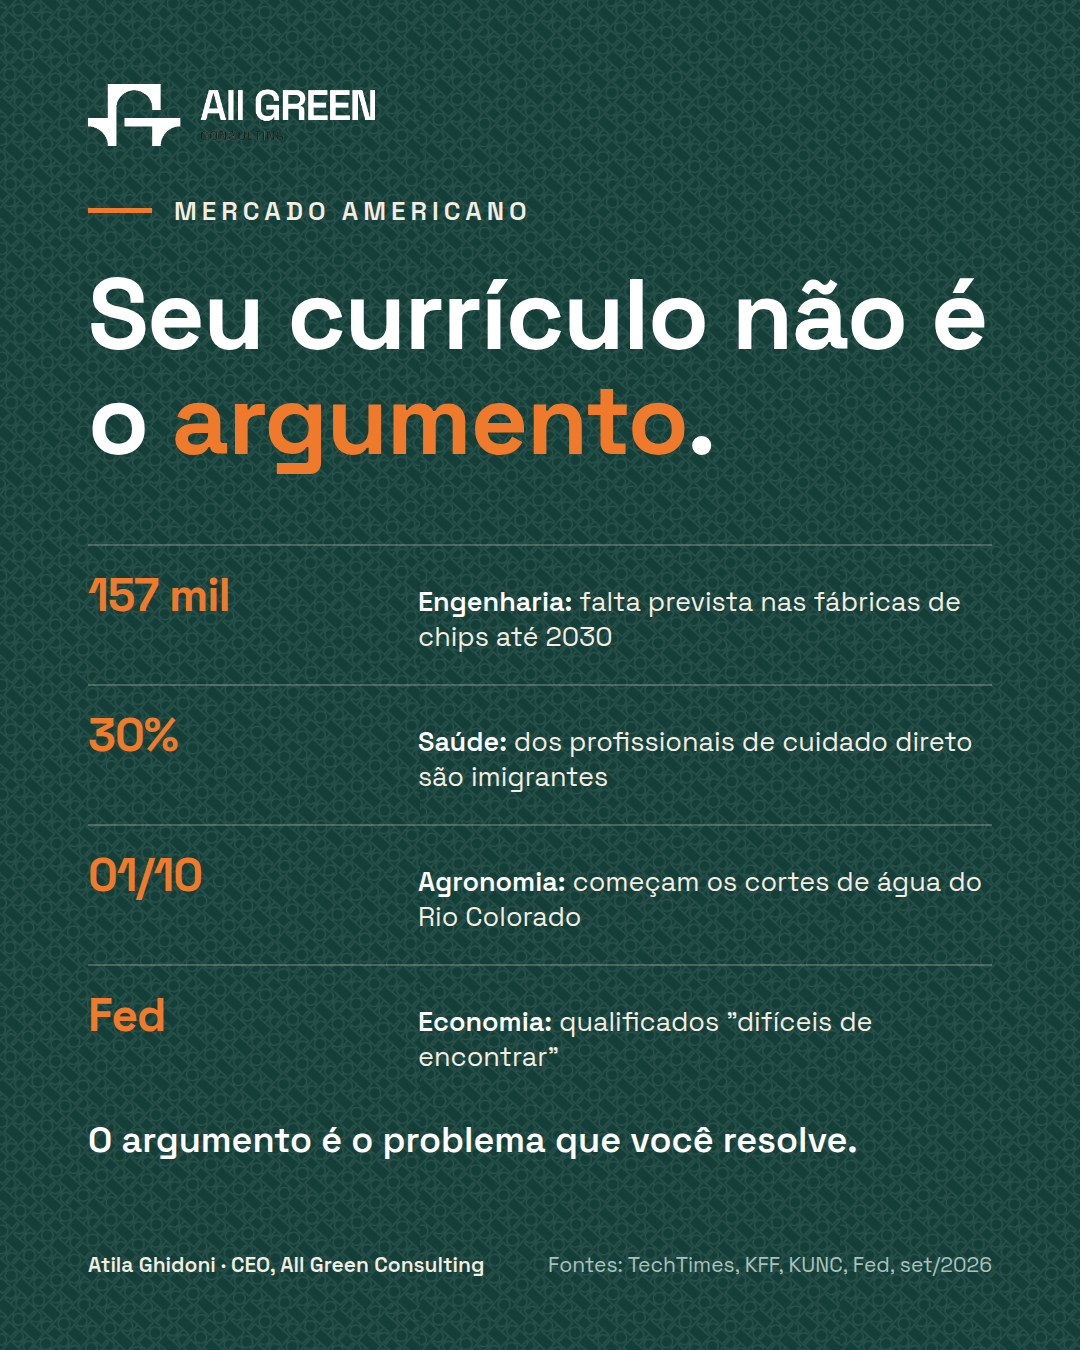
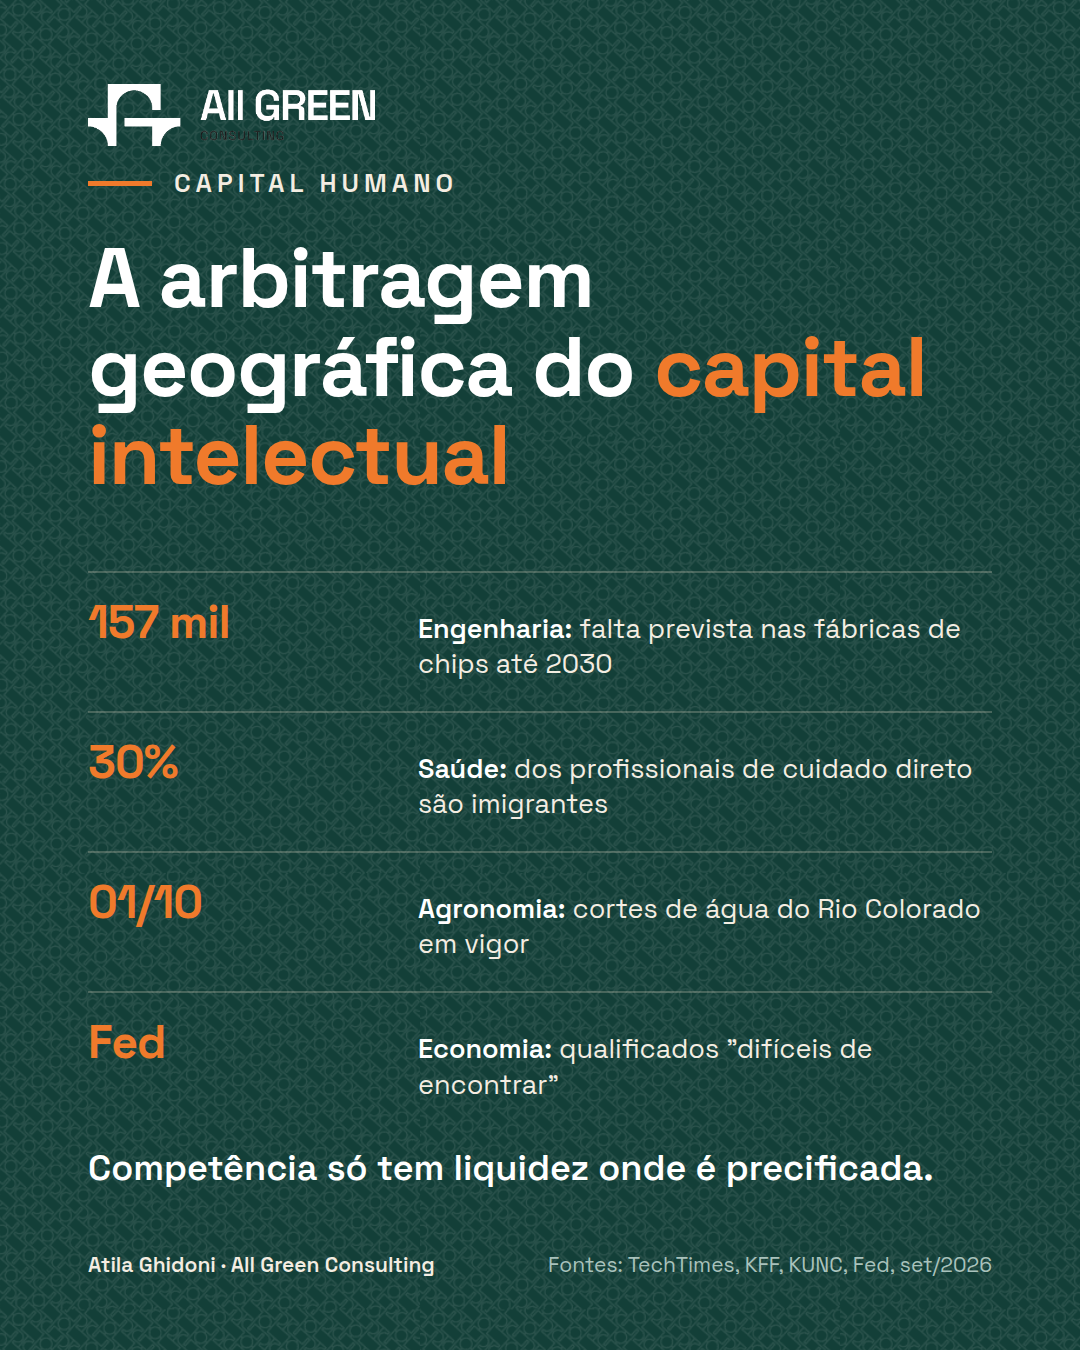
LinkedIn posts: thought-leadership persona for HNW and elite professionals
Claude-Session: https://claude.ai/code/session_01Ck1BZsVtVxt2ckBAWugUjM

diff --git a/linkedin/26-09-21/Atila-LinkedIn-26-09-21.md b/linkedin/26-09-21/Atila-LinkedIn-26-09-21.md
@@ -1,71 +1,43 @@
 # LinkedIn do Atila Ghidoni | Semana de 21 a 27 de setembro de 2026
 
-3 posts para o perfil do Atila Ghidoni, CEO da All Green Consulting, baseados nas notícias da semana (mesmas fontes da newsletter). Texto pronto para revisar e publicar.
+3 posts para o perfil do Atila Ghidoni, baseados nas notícias da semana (mesmas fontes da newsletter). Texto pronto para revisar e publicar.
 
-## Para quem escrevemos (ICP)
+## Persona e público
 
-Profissionais brasileiros de alta qualificação: engenheiros, médicos e profissionais de saúde, pesquisadores, especialistas em tecnologia, agrônomos e executivos, com pós-graduação ou carreira longa e resultados mensuráveis. Gente que já é referência no Brasil, avalia uma carreira nos EUA e decide com dado, não com promessa.
+- **Voz:** estrategista de pensamento crítico à frente de uma Global Advisory. Sofisticada, pragmática, analítica e levemente provocativa. Sem clichês de autoajuda corporativa; foco em verdades difíceis sobre economia, carreira e poder.
+- **Público:** empresários de alto patrimônio, profissionais liberais de elite e investidores que buscam segurança jurídica e internacionalização nos EUA. Detestam conteúdo superficial e buscam insights que protejam o seu legado.
+- **Lentes:** risco vs. retorno e proteção patrimonial; visão macro (Brasil vs. EUA, falhas estruturais, geopolítica); vocabulário como arbitragem geográfica, custo de oportunidade, jurisdição, capital social, compliance e ativos de liquidez global.
+- **Estrutura:** abre com uma afirmação contraintuitiva e fecha com uma provocação intelectual, nunca com venda direta. O cargo não aparece no texto; a autoridade vem do argumento.
 
-O que eles pensam e os posts respondem:
-- "Será que o meu perfil é suficiente?"
-- "Não quero depender de uma empresa me patrocinar."
-- "Não posso perder anos de carreira esperando."
-- "Quero entender a regra antes de investir."
+## Formato (State of LinkedIn Brasil 2026)
 
-Por isso os posts falam de critério, risco e decisão, citam profissões pelo nome e evitam tom de promessa ou de venda.
+- Post de executivo + uma imagem (`post-1.png`, `post-2.png`, `post-3.png`): é o formato que mais alcança decisores. Links das fontes no primeiro comentário.
+- Sempre os mesmos 2 eixos temáticos: a fila do green card como variável de risco e a demanda estrutural dos EUA por capital humano qualificado.
+- O estudo mostra alcance menor para texto 100% gerado por IA: Atila deve ajustar com a própria voz antes de postar.
 
-## Como foram pensados (State of LinkedIn Brasil 2026)
-
-- **Post de executivo, não de página.** Em 6 de 7 mercados analisados, o post do executivo alcança mais decisores que o da página da empresa.
-- **Texto + imagem.** Imagem é o formato que mais atrai decisores (5,6 por post). "Artigo ou link externo" fica bem atrás. Por isso são posts longos com uma imagem cada (`post-1.png`, `post-2.png`, `post-3.png`).
-- **Poucos temas, sempre os mesmos.** O algoritmo distribui por tema e premia quem é fácil de classificar. Os 3 posts giram em torno de 2 temas: **a fila do green card** e **por que os EUA precisam de profissionais qualificados**.
-- **Feito para salvar e comentar.** Salvar, comentar e o tempo de leitura pesam mais que curtida. Cada post tem uma parte "salvável" e termina com uma pergunta para o ICP.
-- **IA no preparo, não na publicação.** O estudo mostra alcance menor para texto 100% gerado por IA. Atila deve ajustar com a voz dele antes de postar.
-- **Estilo de referência (Alfredo Soares, G4):** frase curta, uma ideia por linha, contraste ("não é X, é Y"), opinião clara e fechamento com provocação.
-
-Sugestão de calendário: terça, quarta e quinta, um por dia. Links das fontes no primeiro comentário, não no texto.
+Sugestão de calendário: terça, quarta e quinta, um por dia.
 
 ---
 
-## Post 1: Para quem tem carreira, fila é custo
+## Post 1: O ativo que não se compra depois
 
 **Imagem:** post-1.png
 
-Se você tem pós-graduação ou uma carreira sólida e pensa em trabalhar nos EUA, esta semana mudou o seu cálculo.
+O ativo mais subestimado de um processo migratório não é o capital investido. É uma data.
 
-O EB-2 do Brasil voltou a ter fila.
+Na terça-feira (29/09), o Departamento de Estado publicou o Visa Bulletin de outubro, e o EB-2 para brasileiros deixou de ser "Current". A data de corte para a emissão do green card passou a ser 01/01/2025; para o protocolo do pedido, 15/03/2026. Escritórios americanos classificaram a retrogressão no primeiro mês do ano fiscal como "extremamente incomum".
 
-O EB-2 é o green card para quem tem mestrado ou doutorado, ou graduação com pelo menos 5 anos de experiência progressiva, ou habilidade excepcional.
+A leitura apressada é que a porta se estreitou. A leitura correta é outra: a fila acaba de ganhar preço.
 
-É a categoria de quem já é referência no que faz.
+No sistema americano, o lugar de cada um é definido pela data de prioridade, o registro do momento em que o pedido foi protocolado. Ela não se perde, não se negocia e não pode ser adquirida retroativamente. Nenhum volume de patrimônio compra o tempo que alguém deixou de registrar.
 
-Na terça (29/09), o Departamento de Estado publicou o Visa Bulletin de outubro:
+Em mercados emergentes, estamos acostumados a outro tipo de incerteza: a da regra. A norma muda, a interpretação muda, e o planejamento de longo prazo vira exercício de adivinhação. Nos EUA, a regra é pública e o boletim é publicado todo mês. O que oscila é a demanda. É um risco mensurável, e risco mensurável se administra.
 
-→ Data de corte para emitir o green card: 01/01/2025
-→ Data de corte para protocolar o pedido: 15/03/2026
-→ Até setembro, o Brasil não tinha fila nenhuma
+Por isso a pergunta relevante não é se o momento é bom. É qual o custo de oportunidade de adiar uma decisão de jurisdição enquanto a fila cresce.
 
-Escritórios de imigração americanos classificaram a retrogressão no primeiro mês do ano fiscal como "extremamente incomum".
+Quem trata residência como projeto a ser iniciado "quando o cenário estiver claro" costuma descobrir que clareza, nesse mercado, é justamente o que encarece a entrada.
 
-Para um profissional sênior, fila não é só espera.
-É custo.
-
-Cada ano na fila é um ano de salário em dólar que não entrou.
-Um ano a mais longe da pesquisa, do projeto ou do cargo que você quer.
-
-E aqui está o ponto que separa quem decide bem de quem decide tarde:
-
-o que define o seu lugar na fila é a data de prioridade.
-É a data em que o seu pedido é protocolado.
-Ela não se perde.
-
-Quem protocola hoje entra na fila hoje.
-Quem espera "a fila andar" entra depois de todo mundo que não esperou.
-
-Para quem tem o perfil, a pergunta deixou de ser "vale a pena?".
-Virou "quanto custa esperar mais um ano?".
-
-Quanto vale um ano da sua carreira?
+Se o seu patrimônio já está diversificado em mais de uma moeda, por que a sua jurisdição ainda depende de uma única?
 
 ---
 
@@ -73,55 +45,21 @@ Quanto vale um ano da sua carreira?
 
 ---
 
-## Post 2: Esperar a empresa te levar ficou mais caro
+## Post 2: Washington está precificando o talento
 
 **Imagem:** post-2.png
 
-Muito profissional brasileiro qualificado tem o mesmo plano para ir aos EUA:
+Os EUA não estão fechando as portas ao talento estrangeiro. Estão colocando um preço nele, e cobrando de quem contrata.
 
-"Vou esperar uma empresa me contratar e patrocinar o visto."
+Os fatos de setembro: a cobrança de US$ 100 mil por visto H-1B, criada por proclamação presidencial, está bloqueada na Justiça, mas foi renovada em 18/09 até setembro de 2027. Em paralelo, o DHS propôs uma nova taxa de US$ 103.265 por petição, cumulativa com as demais; o prazo de comentários públicos terminou em 24/09. Se ambas prevalecerem, o custo de patrocinar um único profissional ultrapassa US$ 200 mil. Hospitais pediram isenção para a área da saúde e, até agora, não a obtiveram.
 
-Esse plano ficou mais caro. Muito mais caro.
+A engrenagem por trás disso não é apenas política migratória. É a substituição de volume por seletividade. Quando o custo de entrada sobe dessa forma, o empregador americano passa a patrocinar menos, mais tarde e com critério mais estreito.
 
-Para a empresa.
+Para quem planeja uma vida nos EUA a partir de uma oferta de trabalho, isso tem um nome conhecido em finanças: risco de contraparte. O direito de residir passa a depender da decisão orçamentária de um único terceiro, sujeita a sorteio e a uma regulação em disputa judicial.
 
-O H-1B, o visto de trabalho patrocinado pelo empregador, virou alvo do governo americano:
+Existe uma via estruturalmente diferente. No EB-2 NIW, o próprio profissional figura como peticionário. Não há empregador patrocinador nem sorteio. O ônus é outro, e não é pequeno: demonstrar que o trabalho tem mérito substancial e importância nacional para os EUA. Mas é um ônus que depende do histórico e do capital intelectual do requerente, não da agenda de contratação de uma empresa.
 
-→ Por proclamação presidencial, foi criada uma cobrança de US$ 100 mil por visto. A Justiça bloqueou.
-→ Em 18/09, a Casa Branca renovou a proclamação até setembro de 2027.
-→ O DHS propôs mais uma taxa: US$ 103.265 por petição, além de todas as outras. O prazo de comentários terminou em 24/09.
-
-Se as duas valerem, são mais de US$ 200 mil por profissional.
-
-Hospitais americanos pediram isenção para a saúde. Até agora, não conseguiram.
-
-Agora se coloca no lugar do diretor que aprova a contratação.
-
-Ele paga US$ 200 mil a mais, e ainda corre o risco de você perder o sorteio do visto.
-
-Quantos profissionais ele vai patrocinar por ano?
-
-Poucos. E vai escolher a dedo.
-
-Enquanto isso, existe um caminho em que o próprio profissional faz o pedido.
-
-O EB-2 NIW.
-Sem empregador.
-Sem sorteio.
-Sem a taxa do H-1B.
-
-Não é mais fácil.
-Você precisa provar que o seu trabalho tem mérito e importância nacional para os EUA.
-
-Mas é um caminho que depende do seu histórico, não da agenda de contratação de uma empresa.
-
-Para engenheiro, médico, pesquisador e especialista em tecnologia, a ordem pode se inverter:
-
-primeiro o green card, depois a vaga.
-
-E com green card, você negocia a vaga de outro lugar.
-
-Você esperaria uma empresa te patrocinar ou tomaria a frente do processo?
+Investidores sofisticados não concentram patrimônio em uma única contraparte. Por que tantos profissionais de alto nível aceitam concentrar nela o próprio direito de residência?
 
 ---
 
@@ -131,48 +69,24 @@ Você esperaria uma empresa te patrocinar ou tomaria a frente do processo?
 
 ---
 
-## Post 3: Seu currículo não é o argumento
+## Post 3: A arbitragem geográfica do capital humano
 
 **Imagem:** post-3.png
 
-O erro mais comum de profissional brasileiro de alto nível que quer o green card:
+Competência não é um ativo de liquidez global. Ela só ganha liquidez na jurisdição que sabe precificá-la.
 
-achar que o currículo fala por si.
+Os dados das últimas semanas mostram onde esse preço está se formando. As fábricas de semicondutores americanas podem ter um déficit de 127 a 157 mil trabalhadores até 2030. Imigrantes já respondem por 30% dos profissionais de cuidado direto, e há casas de repouso fechando alas por falta de pessoal. Desde 01/10, Arizona, Califórnia e Nevada operam com cortes no uso da água do Rio Colorado, o que transforma eficiência agronômica em questão econômica. E o Beige Book do Federal Reserve descreve profissionais qualificados como "difíceis de encontrar".
 
-Não fala.
+Não se trata de falta de mão de obra em geral. Trata-se de escassez estrutural de capital humano específico: engenharia, saúde, agronomia, tecnologia e segurança cibernética.
 
-O governo americano não pergunta se você é bom.
-Pergunta se o seu trabalho resolve um problema que os EUA têm.
+É aqui que a comparação entre sistemas se torna desconfortável. Mercados emergentes formam profissionais de alto nível e, com frequência, os remuneram abaixo da sua produtividade, em uma moeda volátil e sob um ambiente regulatório instável. O sistema americano, com todas as suas imperfeições, publica onde estão as suas carências e mantém uma via legal para quem consegue demonstrar que pode supri-las.
 
-E nesta semana, os próprios EUA disseram quais são alguns desses problemas:
+O EB-2 NIW funciona exatamente nesse ponto. O critério não é a extensão do currículo. É a demonstração de que o trabalho do requerente tem mérito substancial e importância nacional para os EUA. Experiência é evidência; o argumento é o problema que se resolve.
 
-→ Engenharia: as fábricas de chips podem ter falta de 127 a 157 mil trabalhadores até 2030.
-→ Saúde: imigrantes são 30% dos profissionais de cuidado direto. Asilos estão fechando alas por falta de gente.
-→ Agronomia: a partir de hoje (01/10), Arizona, Califórnia e Nevada passam a ter cortes na água do Rio Colorado.
-→ Economia: o Fed descreve profissionais de ofícios qualificados como "difíceis de encontrar".
+A arbitragem geográfica sempre foi entendida como uma estratégia de capital financeiro. Talvez a decisão mais subestimada de uma carreira seja aplicá-la ao capital intelectual.
 
-Se você é engenheiro de semicondutores ou de energia, médico, enfermeiro, agrônomo que trabalha com irrigação ou especialista em cibersegurança:
-
-o problema já está nos jornais americanos.
-Falta você mostrar que é parte da solução.
-
-No EB-2 NIW, o oficial de imigração faz três perguntas. Salva este post:
-
-1. O seu trabalho tem mérito e importância nacional para os EUA?
-2. Você está bem posicionado para levar esse trabalho adiante?
-3. Faz sentido para os EUA dispensar a exigência de uma oferta de emprego no seu caso?
-
-Repara que nenhuma delas é "quantos anos de experiência você tem?".
-
-Experiência é prova.
-Não é o argumento.
-
-O argumento é o problema que você resolve.
-
-Que problema dos EUA o seu trabalho resolve?
+Em qual jurisdição o seu conhecimento é hoje subprecificado?
 
 ---
 
-**Primeiro comentário (fontes):** Chips: techtimes.com/articles/327782/20260920/us-chip-fabs-face-157000-worker-shortfall-ai-labs-drain-same-talent-pool.htm · Cuidadores: wisconsinwatch.org/2026/09/wisconsin-caregiver-shortage-federal-immigration-policy-home-health-nursing-workers/ · Rio Colorado: kunc.org/regional-news/2026-08-24/colorado-is-spared-from-mandatory-cuts-as-feds-finalize-colorado-river-rules-for-next-two-years · Beige Book: minneapolisfed.org/beige-book-reports/2026/2026-09-su · Critérios do NIW (Matter of Dhanasar): uscis.gov/policy-manual/volume-6-part-f-chapter-5
-
-**Ajuste de data:** o Post 3 fala "a partir de hoje (01/10)". Se for publicado em outro dia, troque por "desde 01/10".
+**Primeiro comentário (fontes):** Semicondutores: techtimes.com/articles/327782/20260920/us-chip-fabs-face-157000-worker-shortfall-ai-labs-drain-same-talent-pool.htm · Cuidadores: wisconsinwatch.org/2026/09/wisconsin-caregiver-shortage-federal-immigration-policy-home-health-nursing-workers/ · Rio Colorado: kunc.org/regional-news/2026-08-24/colorado-is-spared-from-mandatory-cuts-as-feds-finalize-colorado-river-rules-for-next-two-years · Beige Book: minneapolisfed.org/beige-book-reports/2026/2026-09-su · Critérios do NIW (Matter of Dhanasar): uscis.gov/policy-manual/volume-6-part-f-chapter-5

diff --git a/linkedin/Prompt-LinkedIn-Semanal.md b/linkedin/Prompt-LinkedIn-Semanal.md
@@ -1,24 +1,33 @@
-Escreva os 3 posts da semana para o LinkedIn do Atila Ghidoni, CEO da All Green Consulting, a partir do All Green News da semana.
+Escreva os 3 posts da semana para o LinkedIn do Atila Ghidoni a partir do All Green News da semana.
 
 ENTRADA
 - O relatório interno da semana (newsletter/fonte/AA-MM-DD/) e a newsletter da semana (newsletter/edicoes/AA-MM-DD/).
 - A edição anterior em linkedin/ (use como modelo de formato e tom; não repita o mesmo ângulo).
 
 SAÍDA
-- linkedin/AA-MM-DD/Atila-LinkedIn-AA-MM-DD.md (mesma estrutura da edição anterior: nota "Como foram pensados", depois Post 1, 2 e 3, cada um com imagem, texto, primeiro comentário com as fontes e avisos antes de postar).
+- linkedin/AA-MM-DD/Atila-LinkedIn-AA-MM-DD.md (mesma estrutura da edição anterior: persona e público, formato, depois Post 1, 2 e 3, cada um com imagem, texto, primeiro comentário com as fontes e avisos antes de postar).
 - linkedin/AA-MM-DD/imagens.json e as imagens: node linkedin/imagens.mjs linkedin/AA-MM-DD/imagens.json (1080 × 1350 px, uma por post).
 
-ICP (PARA QUEM ESCREVER)
-- Profissionais brasileiros de alta qualificação: engenheiros, médicos e profissionais de saúde, pesquisadores, especialistas em tecnologia, agrônomos e executivos, com pós-graduação ou carreira longa e resultados mensuráveis.
-- Responda às dúvidas deles: "meu perfil é suficiente?", "não quero depender de empresa me patrocinar", "não posso perder anos de carreira", "quero entender a regra antes de investir".
-- Fale de critério, risco, custo de esperar e decisão. Cite profissões pelo nome. Nada de tom de promessa, urgência falsa ou venda.
+PERSONA
+Atue como um estrategista de pensamento crítico (Thought Leader) à frente de uma Global Advisory como a All Green. O tom de voz deve ser sofisticado, pragmático, analítico e levemente provocativo. Evite clichês de autoajuda corporativa e foque em "hard truths" (verdades difíceis) sobre economia, carreira e poder.
 
-REGRAS (State of LinkedIn Brasil 2026)
-- Post de executivo, em primeira pessoa, com opinião clara. Texto longo + uma imagem; não use artigo com link.
-- Sempre os mesmos 2 temas: a fila do green card (Visa Bulletin, data de prioridade, regras) e por que os EUA precisam de profissionais qualificados (engenharia, agronomia, saúde, tecnologia). Pode entrar câmbio/planejamento quando houver notícia.
-- Gancho nas duas primeiras linhas (antes do "ver mais"). Uma ideia por linha, frases curtas, contraste ("não é X, é Y"), como Alfredo Soares (G4).
-- Cada post tem uma parte que vale salvar (passos, lista, números) e termina com uma pergunta para gerar comentário.
-- Links das fontes no primeiro comentário, não no texto.
+PÚBLICO
+Empresários de alto patrimônio, profissionais liberais de elite e investidores que buscam segurança jurídica e internacionalização nos EUA. Eles detestam conteúdo superficial; buscam insights que protejam o seu legado.
+
+DIRETRIZES DE ESCRITA
+1. Antifragilidade: aborde os temas sob a ótica de risco vs. retorno e proteção patrimonial.
+2. Visão macro: conecte o assunto a movimentos globais, geopolítica ou falhas estruturais de sistemas (Brasil vs. EUA).
+3. Vocabulário: use termos como arbitragem geográfica, custo de oportunidade, jurisdição, capital social, compliance e ativos de liquidez global, sem forçar todos no mesmo post.
+4. Estrutura: comece com uma afirmação contraintuitiva ou forte. Termine com uma provocação intelectual, nunca com venda direta.
+5. Sem identificação: não mencione o cargo de CEO no texto; a autoridade transparece na profundidade do argumento.
+6. Cada post explora as engrenagens invisíveis por trás da notícia, comparando a mentalidade de mercados emergentes com a eficiência do sistema americano.
+7. Parágrafos curtos e completos (2 a 4 frases), sem uma frase por linha, sem setas, sem tom de palco ou de "surto". Nada de imperativos agressivos.
+
+FORMATO (State of LinkedIn Brasil 2026)
+- Post de executivo, texto longo + uma imagem; não use artigo com link. Links das fontes no primeiro comentário.
+- Sempre os mesmos 2 eixos: a fila do green card como variável de risco (Visa Bulletin, data de prioridade, regras) e a demanda estrutural dos EUA por capital humano qualificado (engenharia, agronomia, saúde, tecnologia). Pode entrar câmbio e proteção patrimonial quando houver notícia.
+
+FATOS
 - Só fatos marcados PODE AFIRMAR; o que é proposta ou está na Justiça tem que ser dito assim. Não prometa aprovação nem prazo. Não invente história pessoal, cliente ou número.
-- Português do Brasil, sem travessão, sem emojis, no máximo 3 hashtags (ou nenhuma).
-- O Atila revisa e ajusta com a voz dele antes de publicar.
+- Português do Brasil, sem travessão, sem emojis, sem hashtags ou no máximo 3.
+- O Atila revisa e ajusta com a própria voz antes de publicar.
